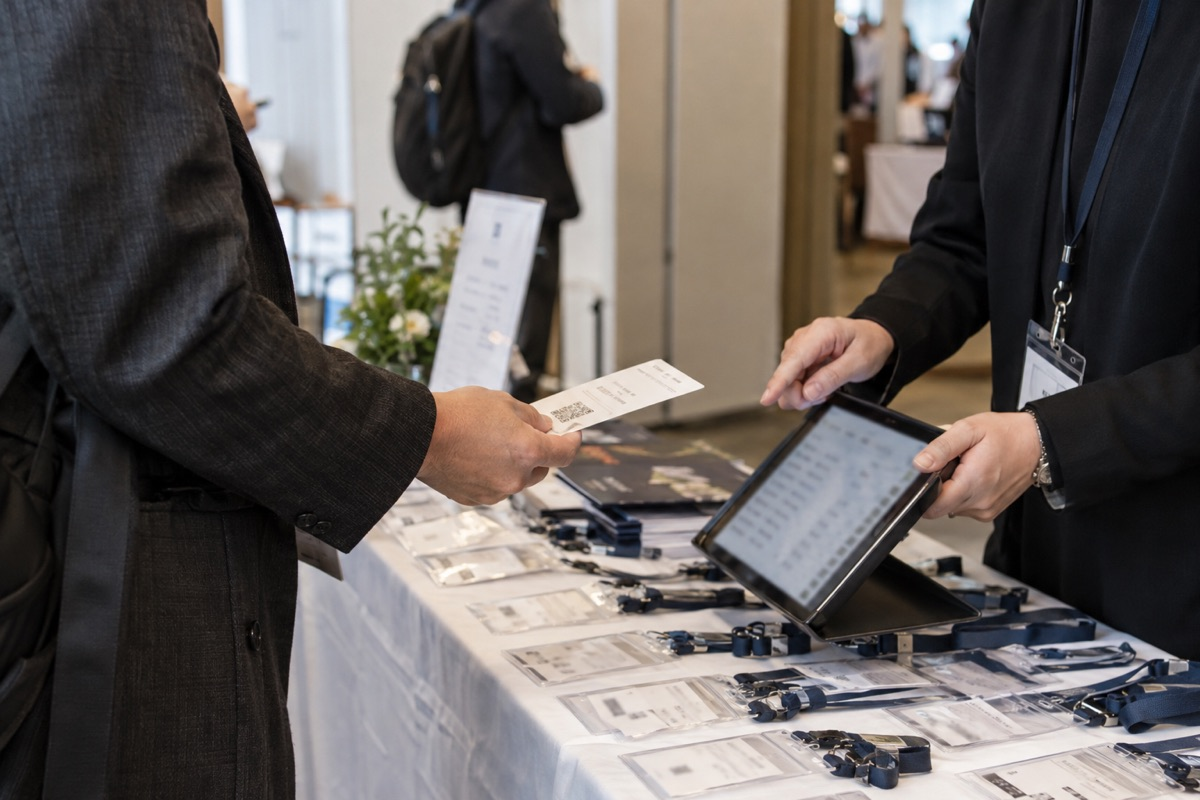
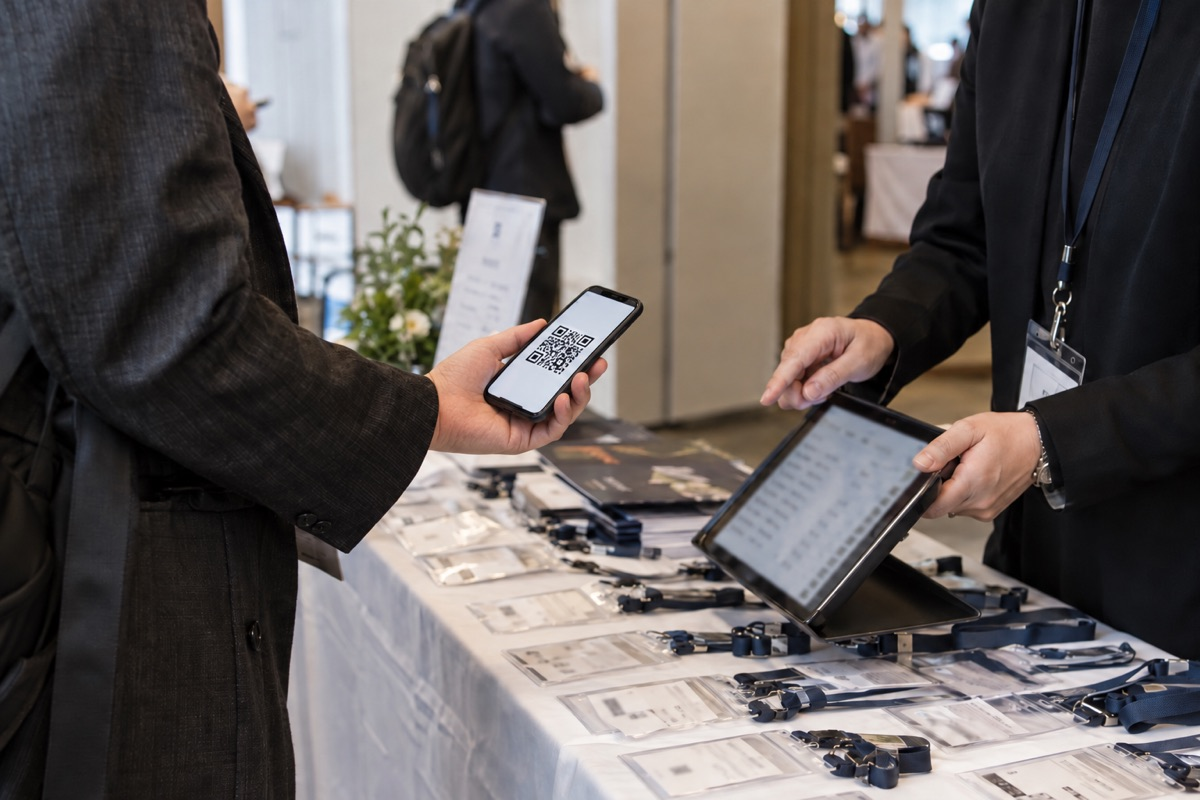
Refine system case photos for target scenes

diff --git a/index.html b/index.html
@@ -607,11 +607,11 @@ html{scroll-padding-top:96px}
 </div>
 <div class="system-case-grid jp">
 <article class="system-case">
-<img class="system-case-photo" src="assets/system-products/meo.jpg?v=2" alt="地図上の店舗情報を確認している利用シーンのイメージ" width="1200" height="800" loading="lazy">
+<img class="system-case-photo" src="assets/system-products/meo.jpg?v=3" alt="飲食店の店主とスタッフが店舗情報を確認している利用シーンのイメージ" width="1200" height="800" loading="lazy">
 <div class="system-case-body"><div class="system-case-heading"><span class="system-case-icon" aria-hidden="true"><svg viewBox="0 0 24 24"><path d="M12 21s7-6.1 7-12a7 7 0 1 0-14 0c0 5.9 7 12 7 12Z"/><circle cx="12" cy="9" r="2.6"/></svg></span><h3>MEO対策システム</h3></div><p>店舗のMEO対策に関わる業務を支えるシステム。</p></div>
 </article>
 <article class="system-case">
-<img class="system-case-photo" src="assets/system-products/sales-list.jpg?v=2" alt="営業先のリストを確認している利用シーンのイメージ" width="1200" height="800" loading="lazy">
+<img class="system-case-photo" src="assets/system-products/sales-list.jpg?v=3" alt="作業服の男性が営業先のリストを確認している利用シーンのイメージ" width="1200" height="800" loading="lazy">
 <div class="system-case-body"><div class="system-case-heading"><span class="system-case-icon" aria-hidden="true"><svg viewBox="0 0 24 24"><rect x="3" y="4" width="18" height="16" rx="2"/><path d="M8 9h1m3 0h6M8 14h1m3 0h6"/></svg></span><h3>営業先リスト作成システム</h3></div><p>営業先の候補を整理し、リスト作成を支援するシステム。</p></div>
 </article>
 <article class="system-case">
@@ -619,7 +619,7 @@ html{scroll-padding-top:96px}
 <div class="system-case-body"><div class="system-case-heading"><span class="system-case-icon" aria-hidden="true"><svg viewBox="0 0 24 24"><rect x="3" y="5" width="18" height="16" rx="2"/><path d="M7 3v4m10-4v4M3 10h18M8 14h3v3H8z"/></svg></span><h3>社内会議室予約システム</h3></div><p>社内の会議室予約と利用状況の管理を支えるシステム。</p></div>
 </article>
 <article class="system-case">
-<img class="system-case-photo" src="assets/system-products/invia.jpg?v=2" alt="イベント会場でゲストを受け付けている利用シーンのイメージ" width="1200" height="800" loading="lazy">
+<img class="system-case-photo" src="assets/system-products/invia.jpg?v=3" alt="イベント会場でゲストがスマートフォンのQRコードを提示している利用シーンのイメージ" width="1200" height="800" loading="lazy">
 <div class="system-case-body"><div class="system-case-heading"><span class="system-case-icon" aria-hidden="true"><svg viewBox="0 0 24 24"><rect x="3" y="4" width="18" height="16" rx="2"/><path d="M8 4v16M12 9h5m-5 4h5m-5 4h3"/><circle cx="5.5" cy="9" r=".5"/></svg></span><h3>イベントゲスト管理システム「INVIA」</h3></div><p>イベントのゲスト情報を管理するためのシステム。</p></div>
 </article>
 </div>
